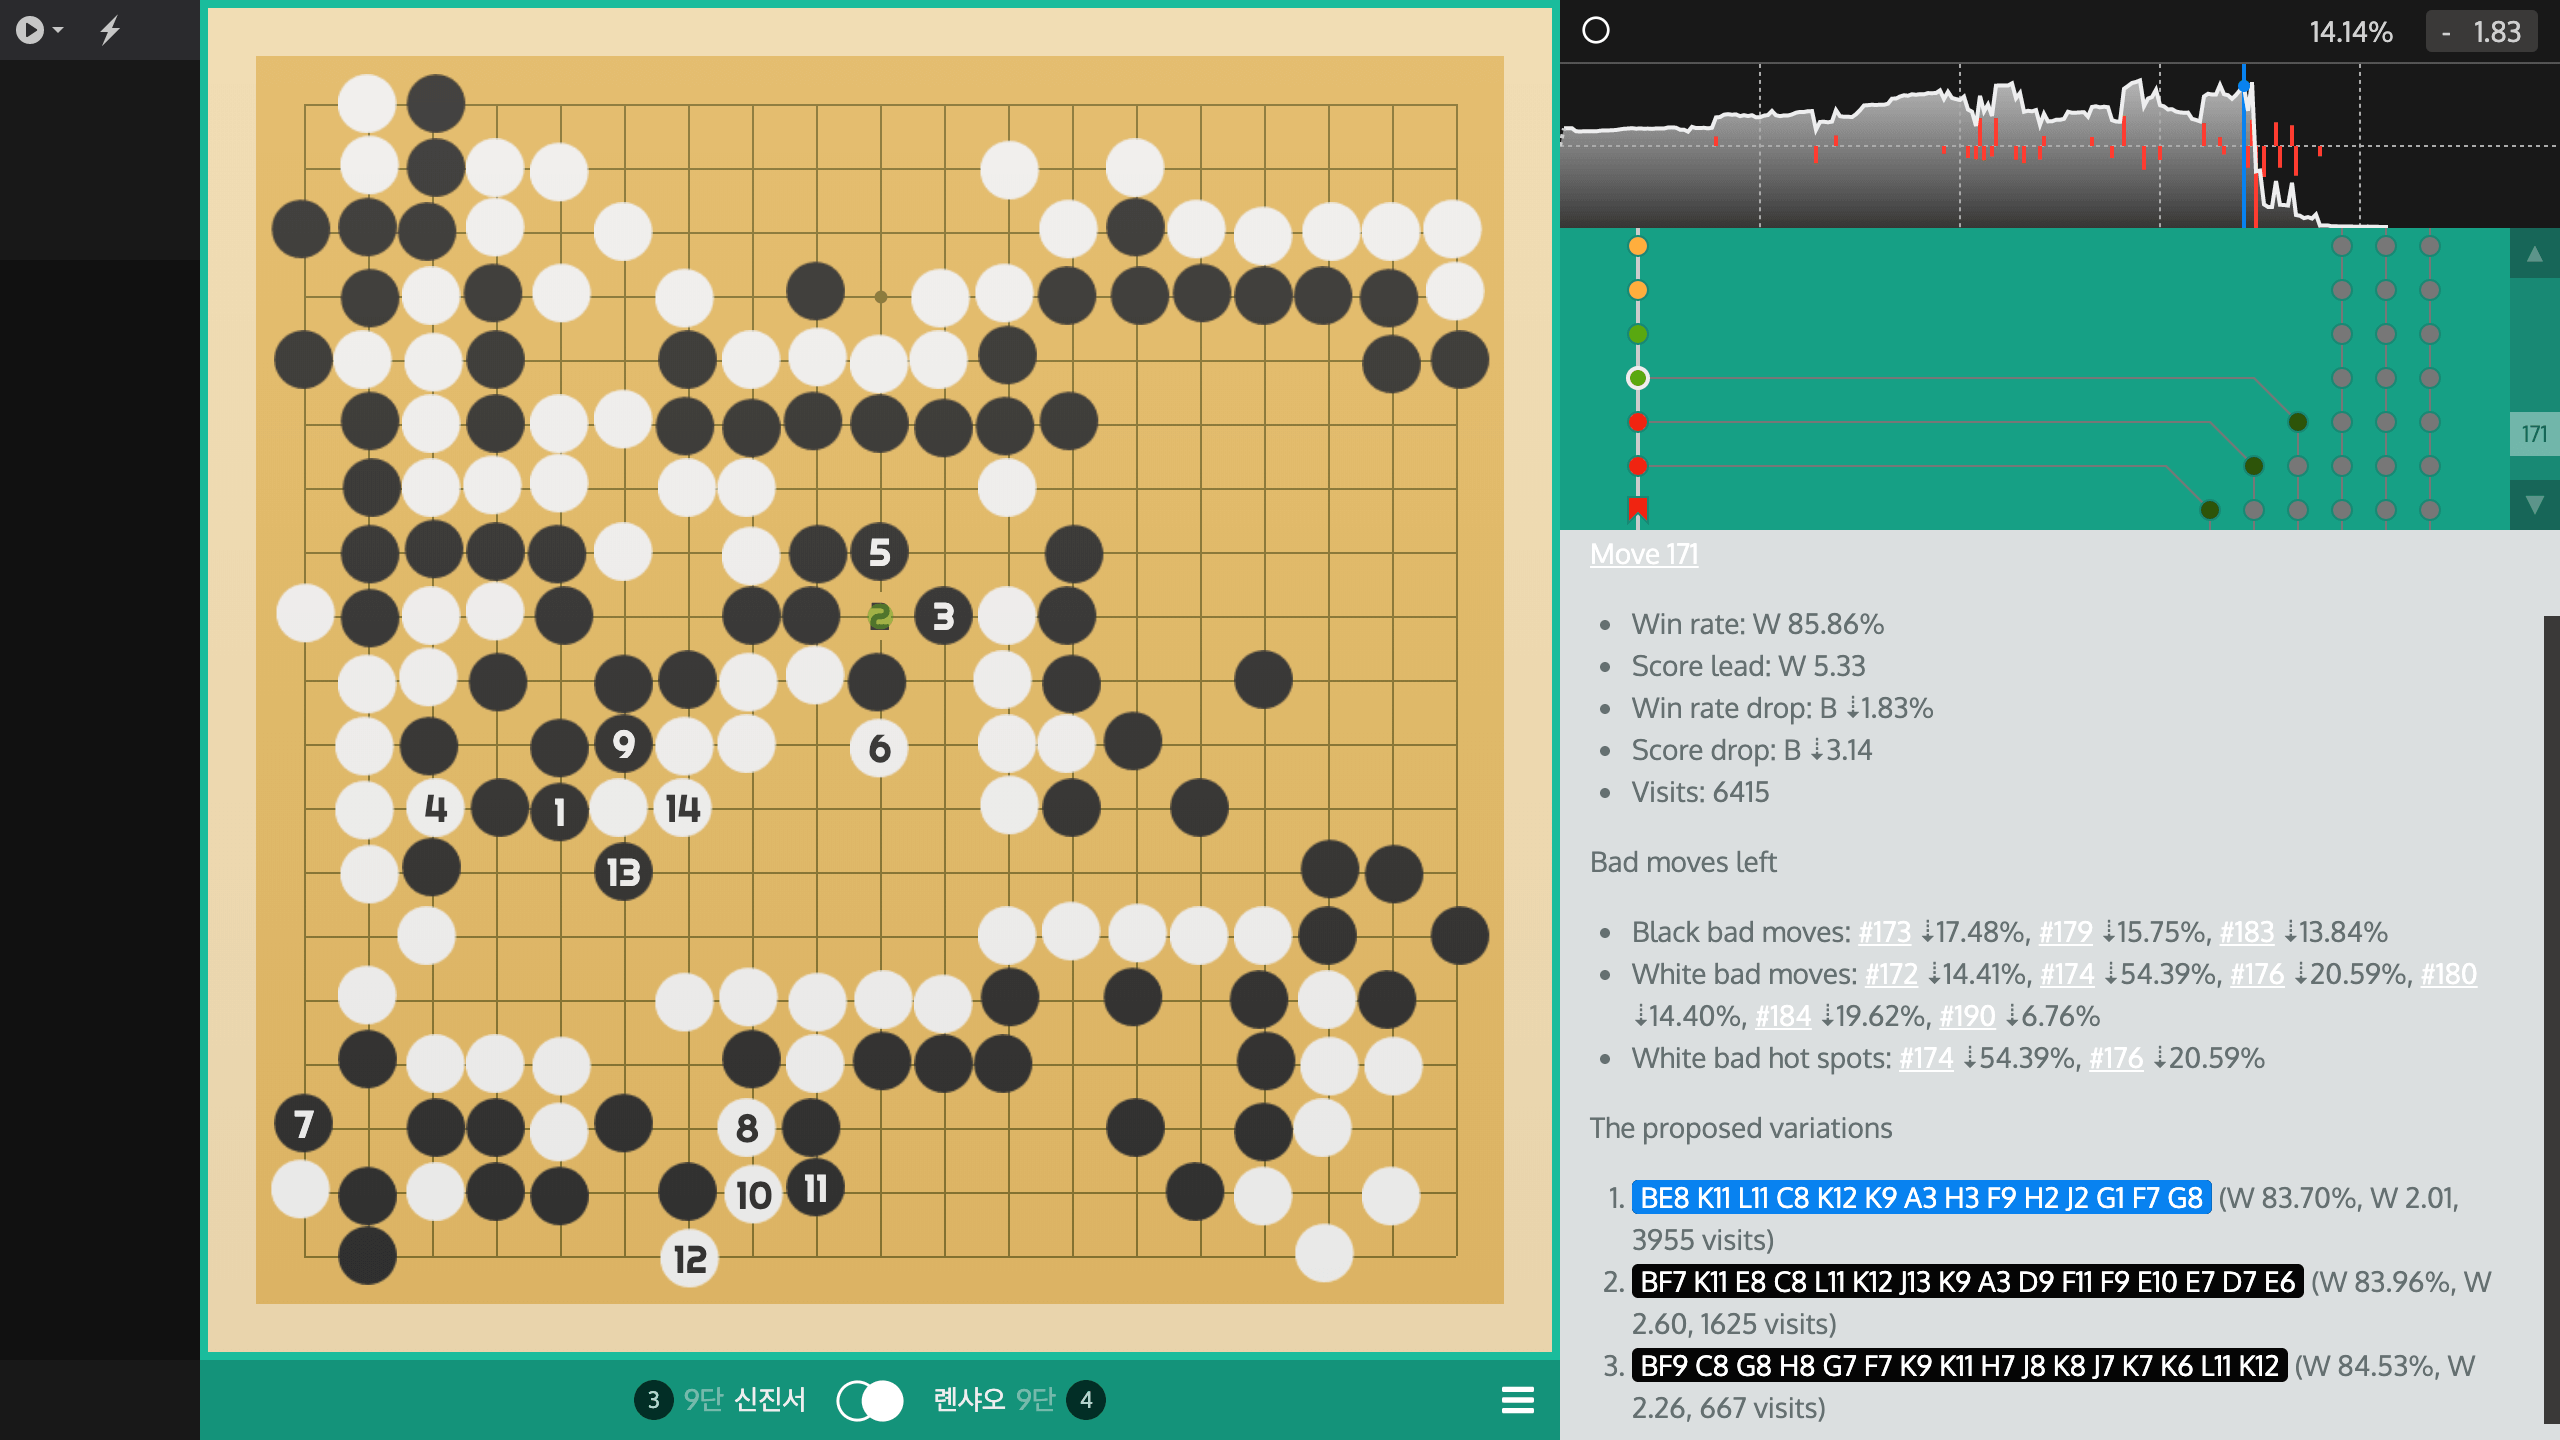
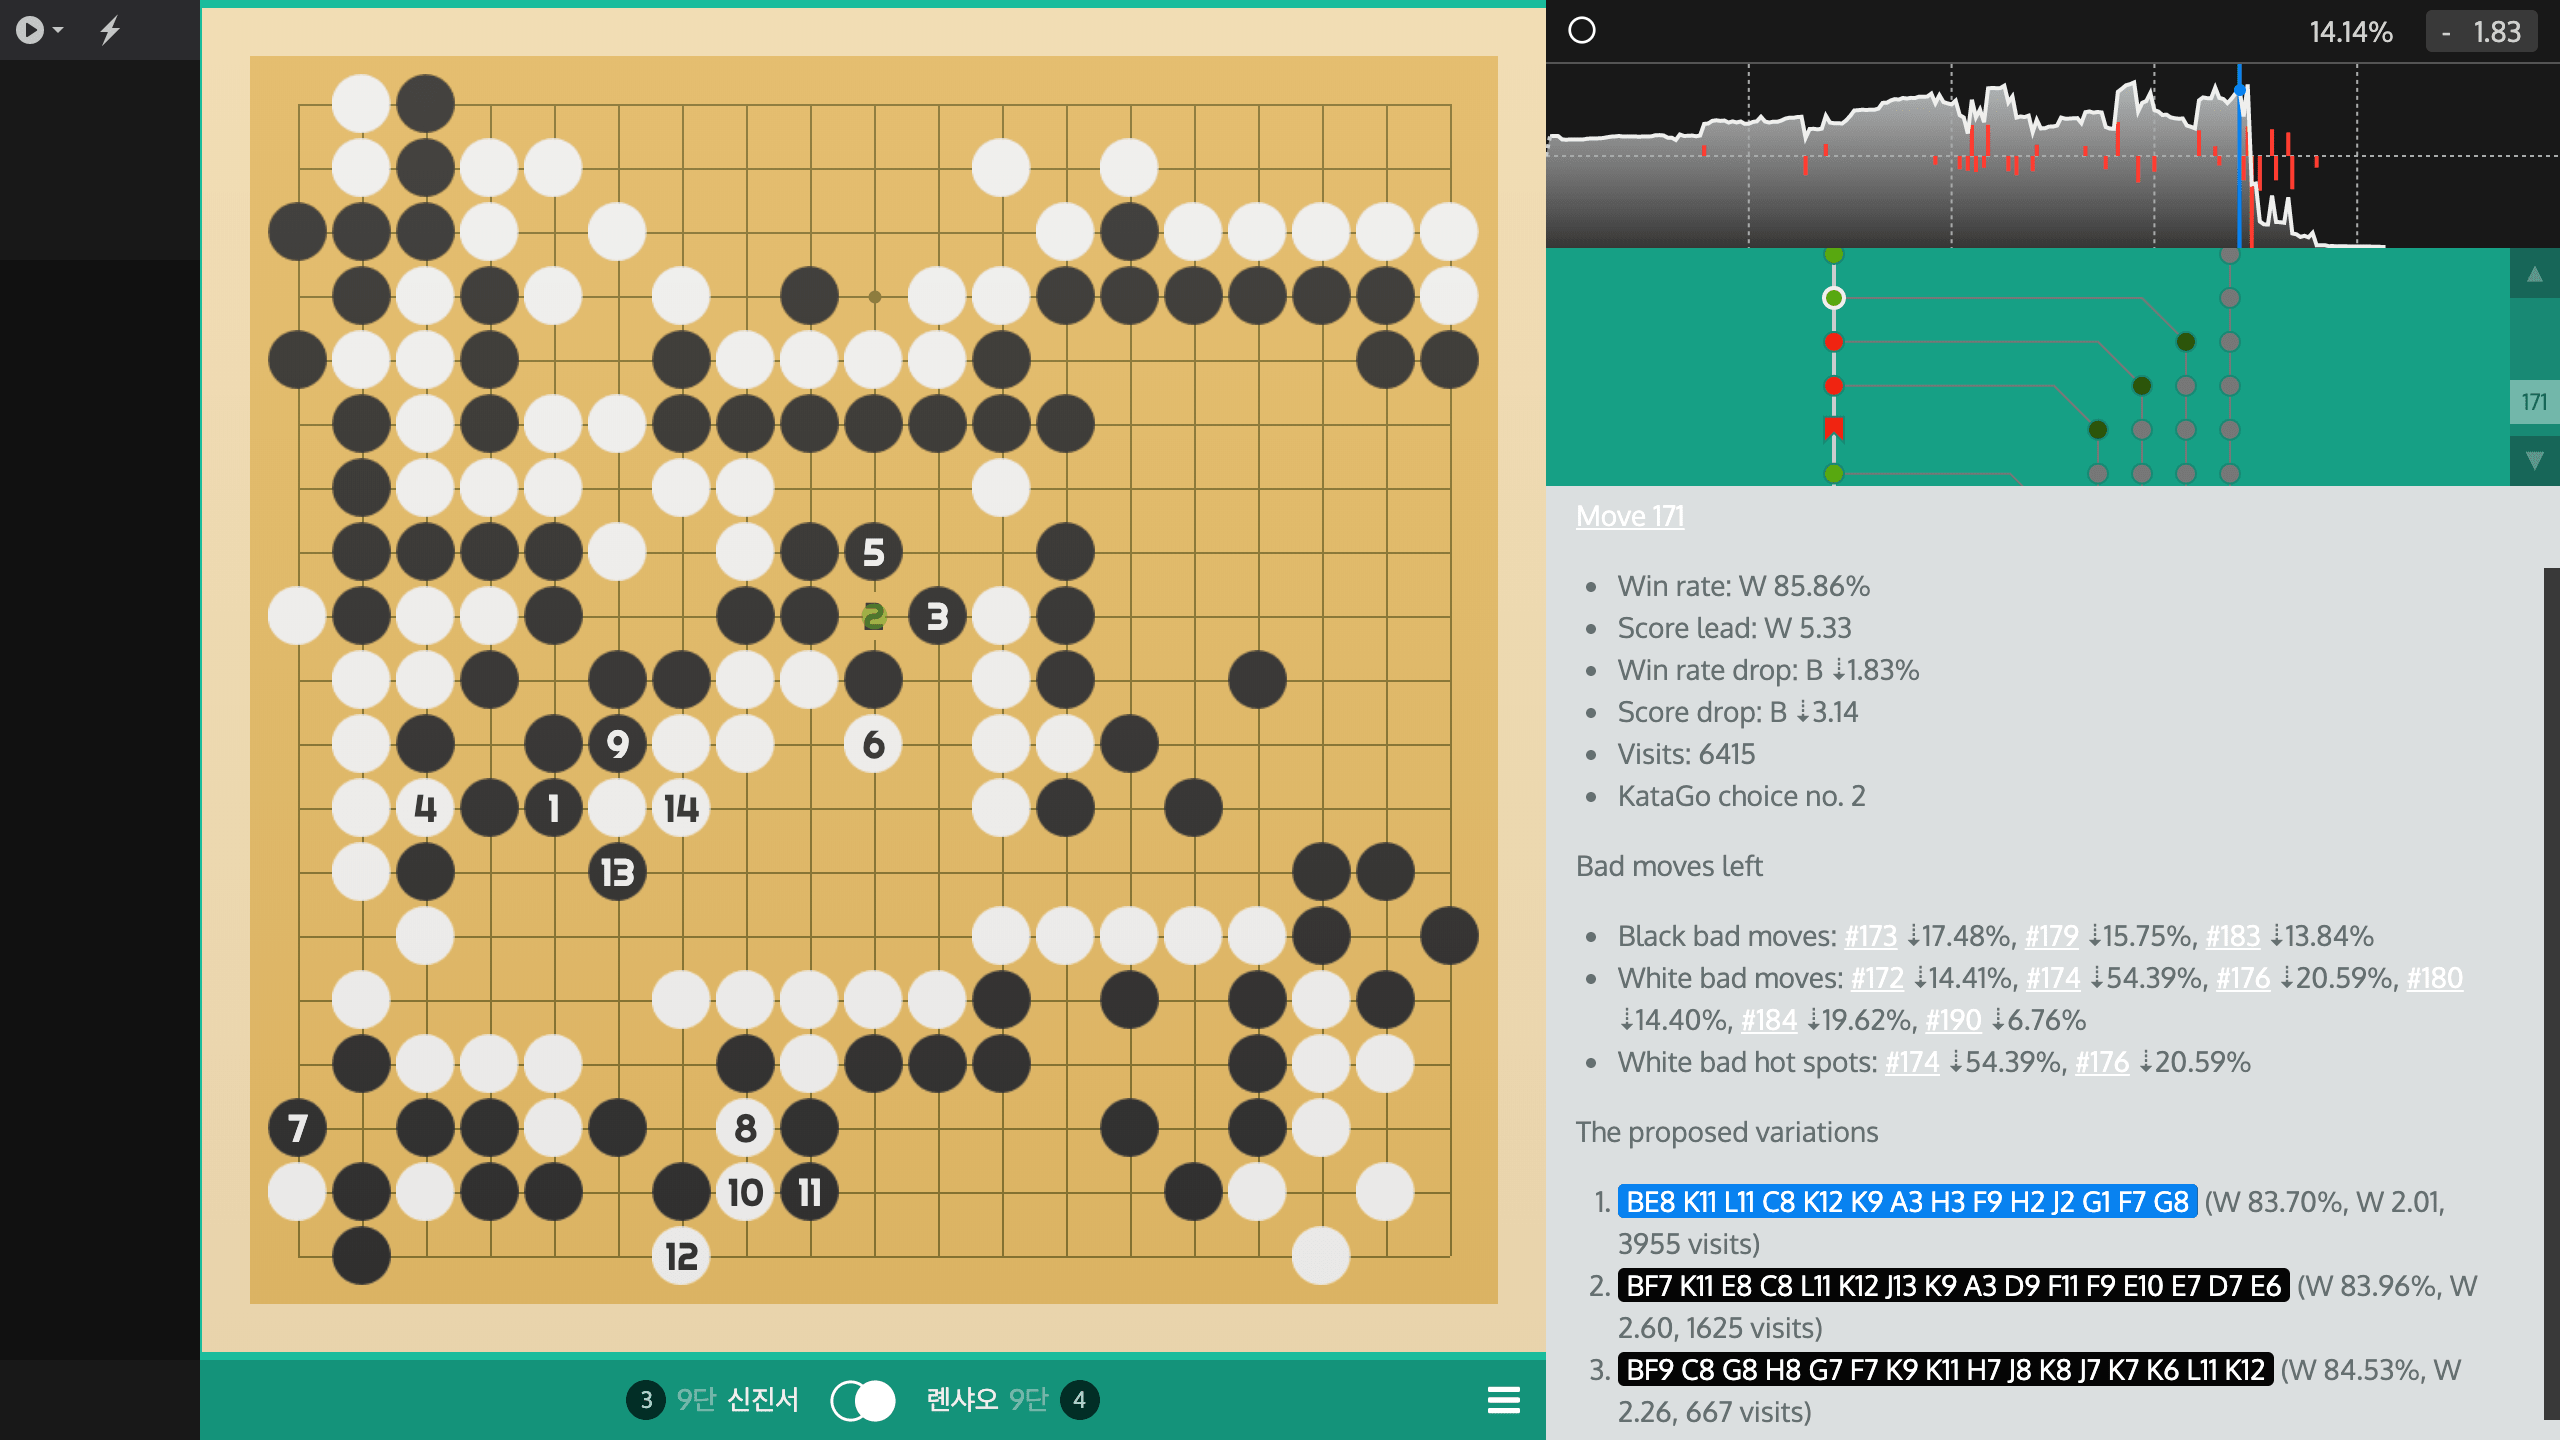
Release version 0.4.2
- Do not support "KataGo choices" statistics
  - Remove test/examples/t-lian-vs-shin*
  - Update old README

Changed region(s): [[0.0938, 0.0, 1.0, 1.0], [0.25, 0.9375, 0.4375, 1.0], [0.9688, 0.4062, 1.0, 0.4375]]

diff --git a/README.md b/README.md
@@ -121,7 +121,6 @@ generated: 신진서-렌샤오-analyzed.sgf
 
 신진서 (Black)
 * KataGo top choices (54.81%, 57/104)
-* KataGo choices (76.92%, 80/104)
 * Less than 2% win rate drops (75.00%, 78/104)
 * Less than 5% win rate drops (88.46%, 92/104)
 * More than 5% win rate drops (11.54%, 12/104): #39 ⇣6.32%, #69 ⇣7.03%, #105 ⇣18.34%, #109 ⇣18.41%, #121 ⇣6.67%, #133 ⇣5.92%, #141 ⇣20.10%, #161 ⇣15.17%, #165 ⇣5.78%, #173 ⇣17.48%, #179 ⇣15.75%, #183 ⇣13.84%
@@ -131,7 +130,6 @@ generated: 신진서-렌샤오-analyzed.sgf
 
 롄샤오 (White)
 * KataGo top choices (52.43%, 54/103)
-* KataGo choices (67.96%, 70/103)
 * Less than 2% win rate drops (74.76%, 77/103)
 * Less than 5% win rate drops (81.55%, 84/103)
 * More than 5% win rate drops (18.45%, 19/103): #64 ⇣11.43%, #96 ⇣5.20%, #102 ⇣7.88%, #104 ⇣8.71%, #106 ⇣9.51%, #108 ⇣6.93%, #114 ⇣9.05%, #116 ⇣11.45%, #120 ⇣8.97%, #138 ⇣7.90%, #146 ⇣15.73%, #150 ⇣9.34%, #166 ⇣5.62%, #172 ⇣14.41%, #174 ⇣54.39%, #176 ⇣20.59%, #180 ⇣14.40%, #184 ⇣19.62%, #190 ⇣6.76%
@@ -169,10 +167,10 @@ generated: [제22회 농심배 12국, 2021-02-24] 이치리키 료 vs 신진서 
 하락하면 초록색 점으로 착수를 표시합니다. 이 기준은 `.analyze-sgf.yml`에서 `minWinrateDropForBadMove`, `minWinrateDropForBadHotSpot`,
 `maxWinrateDropForGoodMove` 설정 값을 지정해서 변경할 수 있습니다.
 
-매 수마다 승률 및 집 변동에 관한 정보와 승률 하락이 큰 수에 대한 링크를 포함하고 있어서
-빠르게 승부처를 분석할 수 있습니다.
+매 수마다 승률 및 집 변동에 관한 정보, 카타고 추천수와 일치 여부, 승률 하락이 큰 수에
+대한 링크 등을 포함하고 있어서 빠르게 승부처를 분석할 수 있습니다.
 
-사바키에서 색깔이 반전된 변화도 수순 위에 마우스를 올리면 위의 스크린숏에서와 같이
+사바키에서 색깔이 검게 반전된 변화도 수순 위에 마우스를 올리면 위의 스크린숏에서와 같이
 자동으로 수순이 진행됩니다.
 
 ## 설정

diff --git a/README.en-US.md b/README.en-US.md
@@ -179,11 +179,12 @@ The screenshot below shows the file opened in Sabaki.
 If the win rate drops by more than 5%, the node of the game tree turns to a
 red dot, if more than 20%, turns to a red ribbon, and if within 2%, turns to a
 green dot. This criterion can be changed by specifying the
-`minWinrateDropForBadMove`, `minWinrateDropForBadHotSpot`, and `maxWinrateDropForGoodMove` settings in `.analyze-sgf.yml` file.
+`minWinrateDropForBadMove`, `minWinrateDropForBadHotSpot`, and
+`maxWinrateDropForGoodMove` settings in `.analyze-sgf.yml` file.
 
-The comment of each move contains information about win rate and score, as
-well as links to the moves with huge win rate drop, so you can quickly analyze
-your game.
+The comment of each move contains information about win rate and score,
+whether it matches KataGo move suggestions, as well as links to the moves with
+huge win rate drop, so you can quickly analyze your game.
 
 If you hover your mouse over a proposed variation in Sabaki, the sequence of
 the variation is automatically played as shown in the screenshot above.
